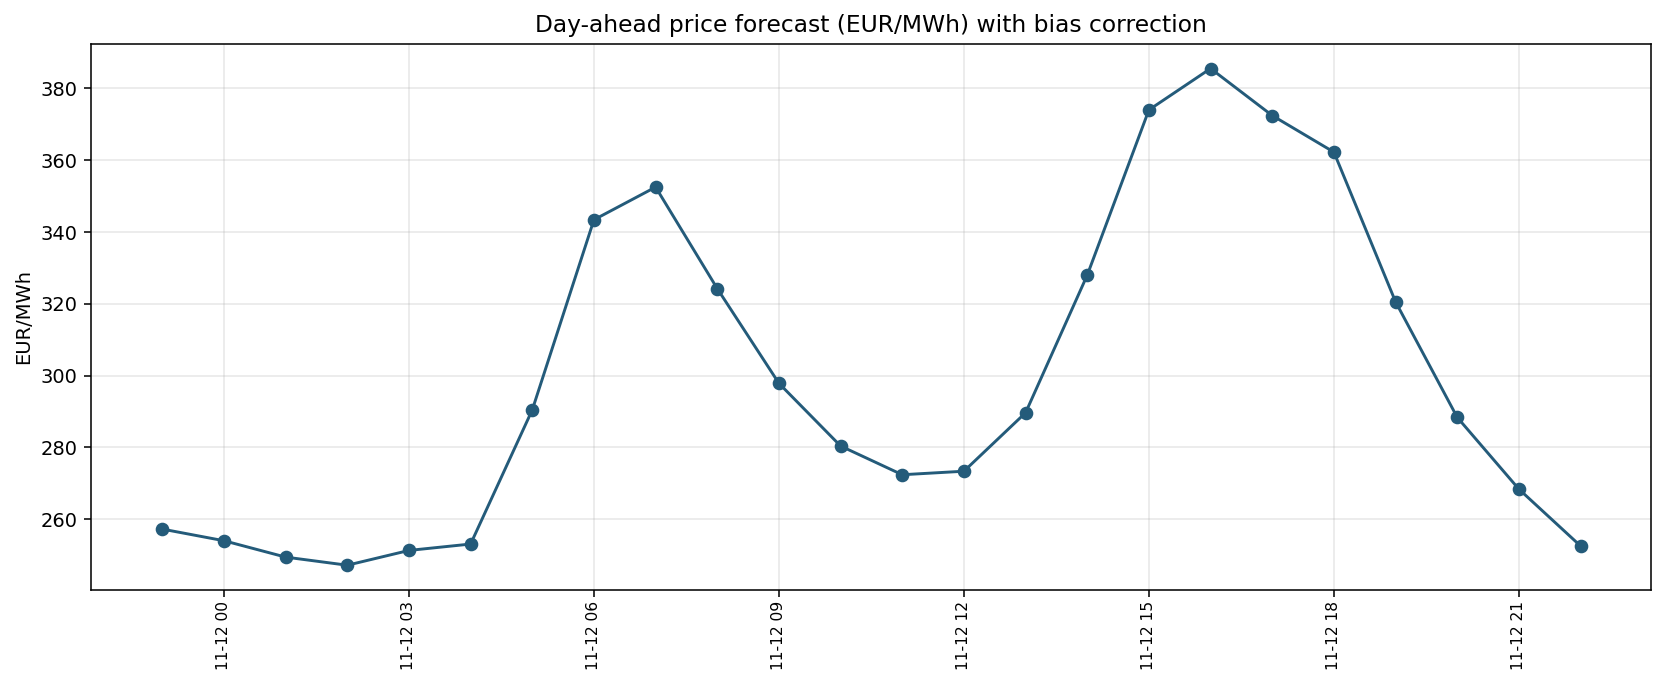
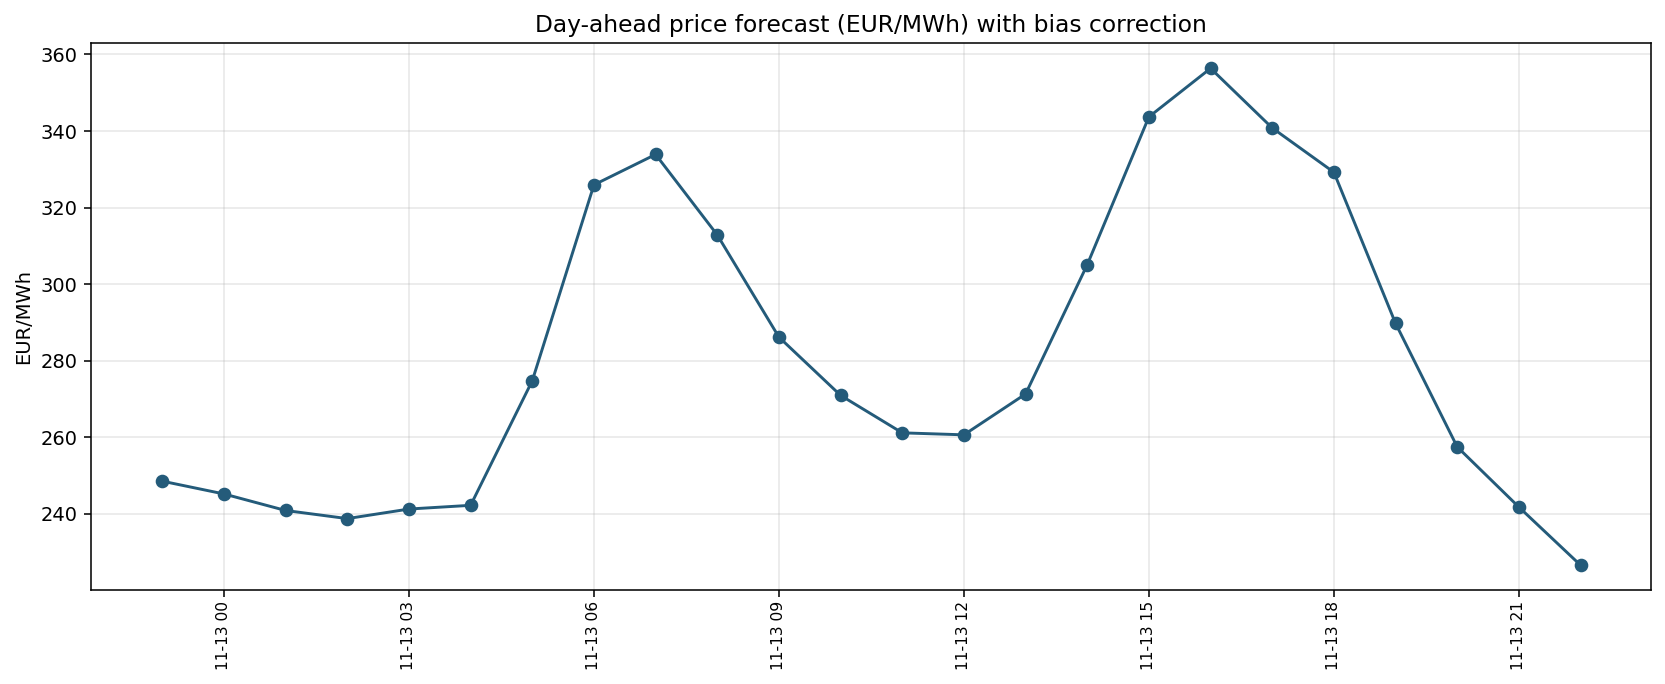
chore: daily forecast update

diff --git a/README.md b/README.md
@@ -195,9 +195,9 @@ Licence: MIT (code). Underlying market data remain subject to their original lic
 
 ## Live daily forecast
 
-**Generated (UTC):** 2026-11-10 21:48  
-**Based on data up to (UTC):** 2026-11-11 22:00  
-**Forecast horizon (UTC):** 2026-11-11 23:00 to 2026-11-12 22:00  
+**Generated (UTC):** 2026-11-11 15:59  
+**Based on data up to (UTC):** 2026-11-12 22:00  
+**Forecast horizon (UTC):** 2026-11-12 23:00 to 2026-11-13 22:00  
 **Protocol:** Conservative (external_shift = 24) + hourly bias correction
 
 ### Forecast chart
@@ -208,30 +208,30 @@ Licence: MIT (code). Underlying market data remain subject to their original lic
 
 | Hour (UTC) | Forecast (EUR/MWh) | Bias |
 |------------|--------------------|------|
-| 2026-11-11 23:00 | 257.26 | -26.37 |
-| 2026-11-12 00:00 | 254.02 | -28.09 |
-| 2026-11-12 01:00 | 249.46 | -26.32 |
-| 2026-11-12 02:00 | 247.20 | -25.87 |
-| 2026-11-12 03:00 | 251.32 | -27.27 |
-| 2026-11-12 04:00 | 253.10 | -16.43 |
-| 2026-11-12 05:00 | 290.47 | -18.57 |
-| 2026-11-12 06:00 | 343.41 | -35.64 |
-| 2026-11-12 07:00 | 352.51 | -43.15 |
-| 2026-11-12 08:00 | 324.24 | -41.50 |
-| 2026-11-12 09:00 | 297.86 | -39.02 |
-| 2026-11-12 10:00 | 280.40 | -38.41 |
-| 2026-11-12 11:00 | 272.40 | -35.03 |
-| 2026-11-12 12:00 | 273.38 | -33.76 |
-| 2026-11-12 13:00 | 289.67 | -33.28 |
-| 2026-11-12 14:00 | 328.00 | -40.34 |
-| 2026-11-12 15:00 | 374.01 | -46.34 |
-| 2026-11-12 16:00 | 385.54 | -36.77 |
-| 2026-11-12 17:00 | 372.44 | -28.76 |
-| 2026-11-12 18:00 | 362.25 | -28.35 |
-| 2026-11-12 19:00 | 320.56 | -22.74 |
-| 2026-11-12 20:00 | 288.38 | -16.61 |
-| 2026-11-12 21:00 | 268.39 | -17.20 |
-| 2026-11-12 22:00 | 252.56 | -17.09 |
+| 2026-11-12 23:00 | 248.50 | -16.42 |
+| 2026-11-13 00:00 | 245.16 | -20.04 |
+| 2026-11-13 01:00 | 240.84 | -17.81 |
+| 2026-11-13 02:00 | 238.72 | -16.19 |
+| 2026-11-13 03:00 | 241.22 | -16.79 |
+| 2026-11-13 04:00 | 242.19 | -7.49 |
+| 2026-11-13 05:00 | 274.75 | -7.78 |
+| 2026-11-13 06:00 | 325.93 | -20.49 |
+| 2026-11-13 07:00 | 333.88 | -26.39 |
+| 2026-11-13 08:00 | 312.84 | -27.12 |
+| 2026-11-13 09:00 | 286.14 | -25.76 |
+| 2026-11-13 10:00 | 270.92 | -24.59 |
+| 2026-11-13 11:00 | 261.13 | -21.32 |
+| 2026-11-13 12:00 | 260.61 | -19.32 |
+| 2026-11-13 13:00 | 271.29 | -17.68 |
+| 2026-11-13 14:00 | 305.07 | -19.93 |
+| 2026-11-13 15:00 | 343.70 | -21.76 |
+| 2026-11-13 16:00 | 356.38 | -14.55 |
+| 2026-11-13 17:00 | 340.80 | -6.82 |
+| 2026-11-13 18:00 | 329.22 | -6.53 |
+| 2026-11-13 19:00 | 289.73 | -1.13 |
+| 2026-11-13 20:00 | 257.45 | 3.33 |
+| 2026-11-13 21:00 | 241.73 | 1.01 |
+| 2026-11-13 22:00 | 226.54 | 1.40 |
 
 ### Previous forecasts vs realized prices
 
@@ -245,6 +245,7 @@ Licence: MIT (code). Underlying market data remain subject to their original lic
 | `forecast_2026-11-05.csv` | 24 | 37.02 | 38.45 |
 | `forecast_2026-11-07.csv` | 24 | 16.96 | 25.55 |
 | `forecast_2026-11-08.csv` | 24 | 82.04 | 103.07 |
+| `forecast_2026-11-10.csv` | 24 | 100.49 | 106.82 |
 
 ![Forecast vs actual](outputs/figures/latest_vs_actual.png)
 
